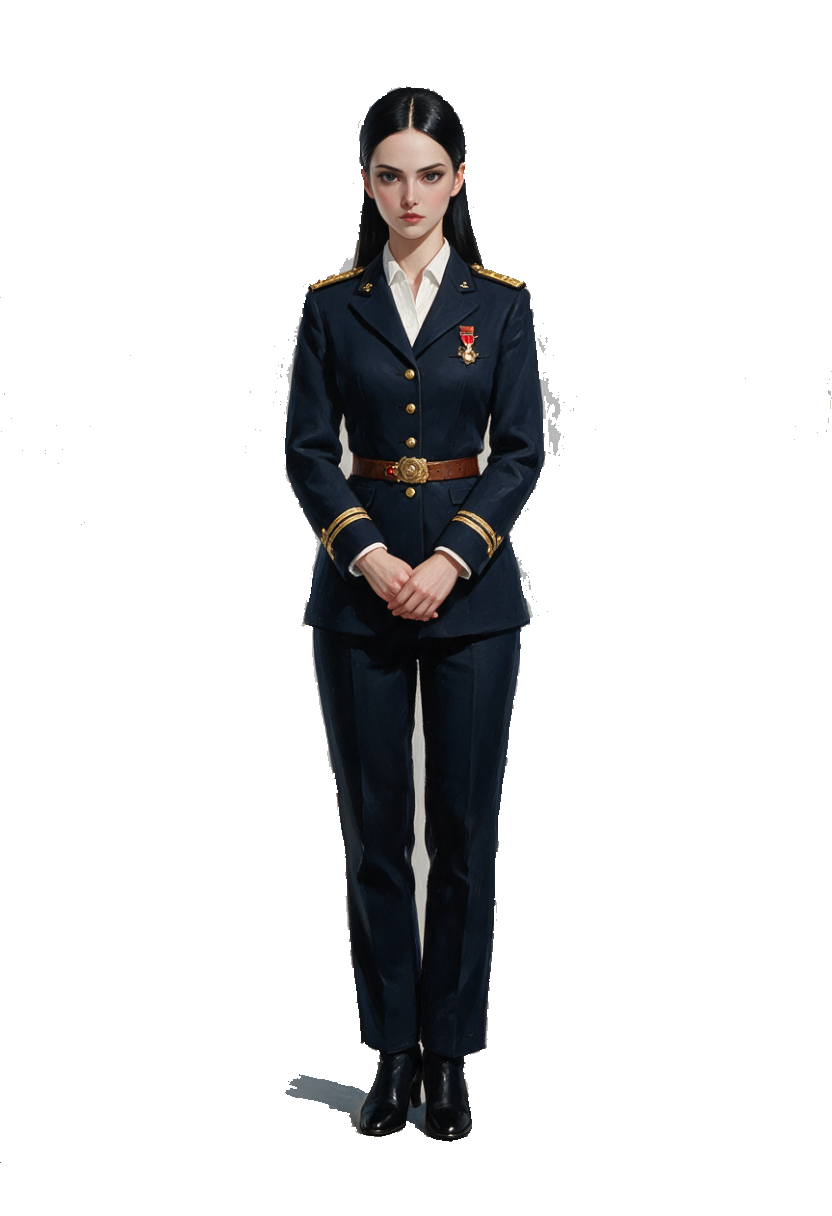
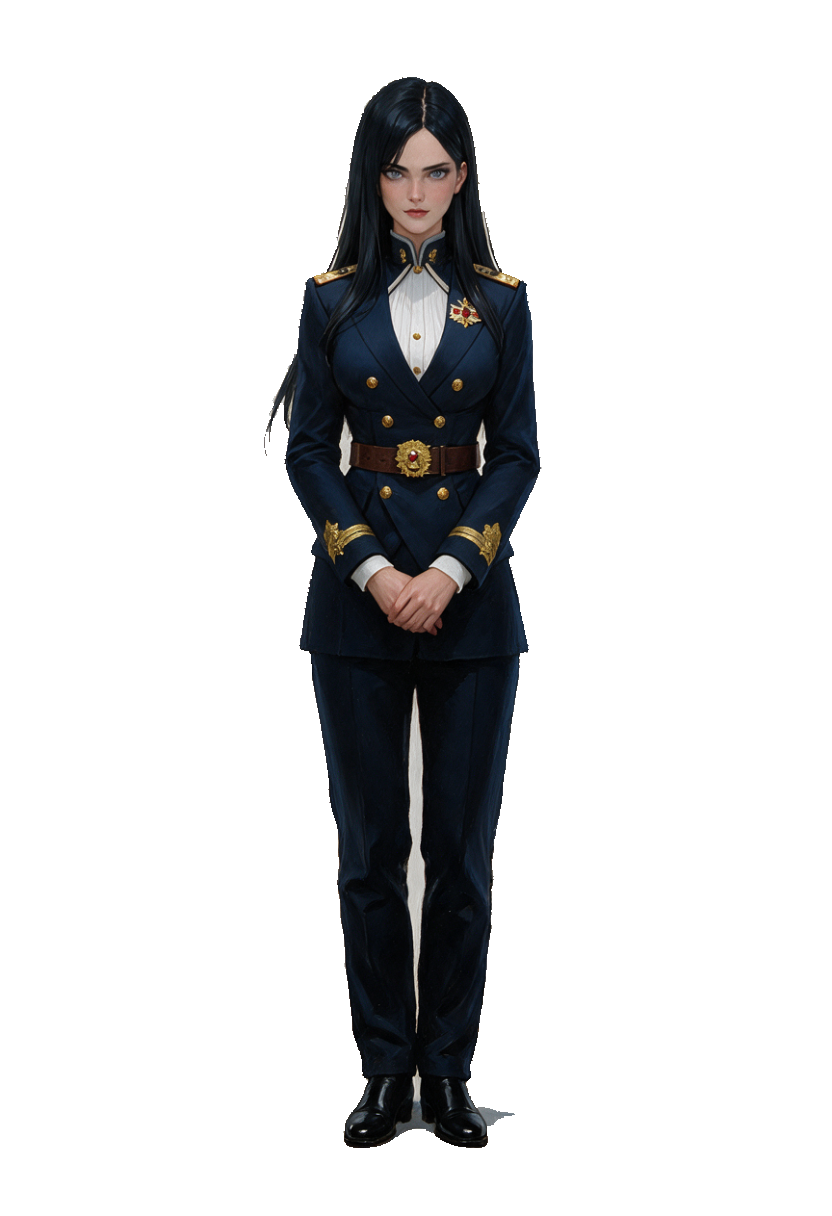
[fix](德塔): 幸立绘重出v3(背景图形象参考)+smile阈值法抠图
- 双参考生图: 从tower_outdoor_mist.png裁出幸全身形象(锁服装/气质)+脸模(锁面部)
- v3形象一致性高: 双排扣军装/金肩章/红金勋章/棕色皮带/双手叠前
- smile阈值法抠图: 渐变背景floodfill失效(透明率37%), 改阈值法(亮度>115+低饱和度), 透明率80.8%
- 4套残留=0

diff --git a/prd/01-需求文档/04-德塔/changelog.md b/prd/01-需求文档/04-德塔/changelog.md
@@ -4,6 +4,21 @@
 
 ---
 
+### [fix] 幸立绘重出v3(背景图形象参考) + smile阈值法抠图(渐变背景)
+
+- **时间**：2026-07-31
+- **变更人**：陈梓键（黑机）
+- **背景**：v2幸立绘仍不够理想，用户要求"用背景图里裁出的幸形象作为参考重新生成"
+- **变更内容**：
+  - **双参考生图**：从 tower_outdoor_mist.png 裁出幸的全身形象（锁服装/气质/姿态）+ 脸模（锁面部），双参考传入 Seedream 生成 v3
+  - **v3形象一致性高**：双排扣军装、金色肩章、红金勋章、棕色皮带、双手叠前、端庄正式
+  - **smile阈值法抠图**：发现 smile 背景是渐变灰（亮度137~192），floodfill 无法穿透渐变扩散，透明率仅37%。改用阈值清理（亮度>115且低饱和度<25→透明），透明率80.8%，残留0
+  - 4套均残留0（observe/pleased/cold用floodfill法，smile用阈值法）
+- **验证**：DOM加载确认、canvas像素采样残留=0
+- **教训**：渐变背景 floodfill 会"撞墙"无法扩散，需改阈值法（按亮度+饱和度判定背景）
+
+---
+
 ### [fix] 幸立绘重出v2(双手叠前+得体表情) + 立绘位置跳动修复(绝对定位)
 
 - **时间**：2026-07-31
